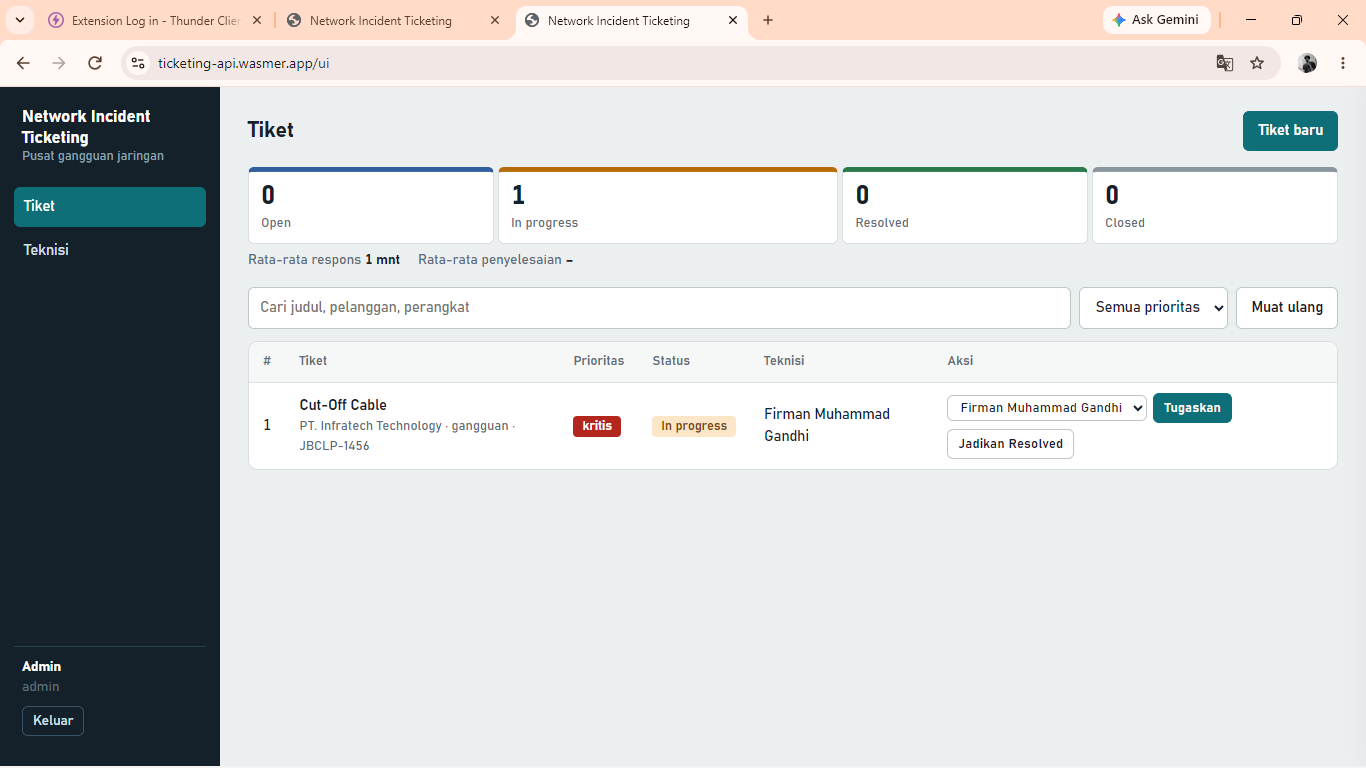
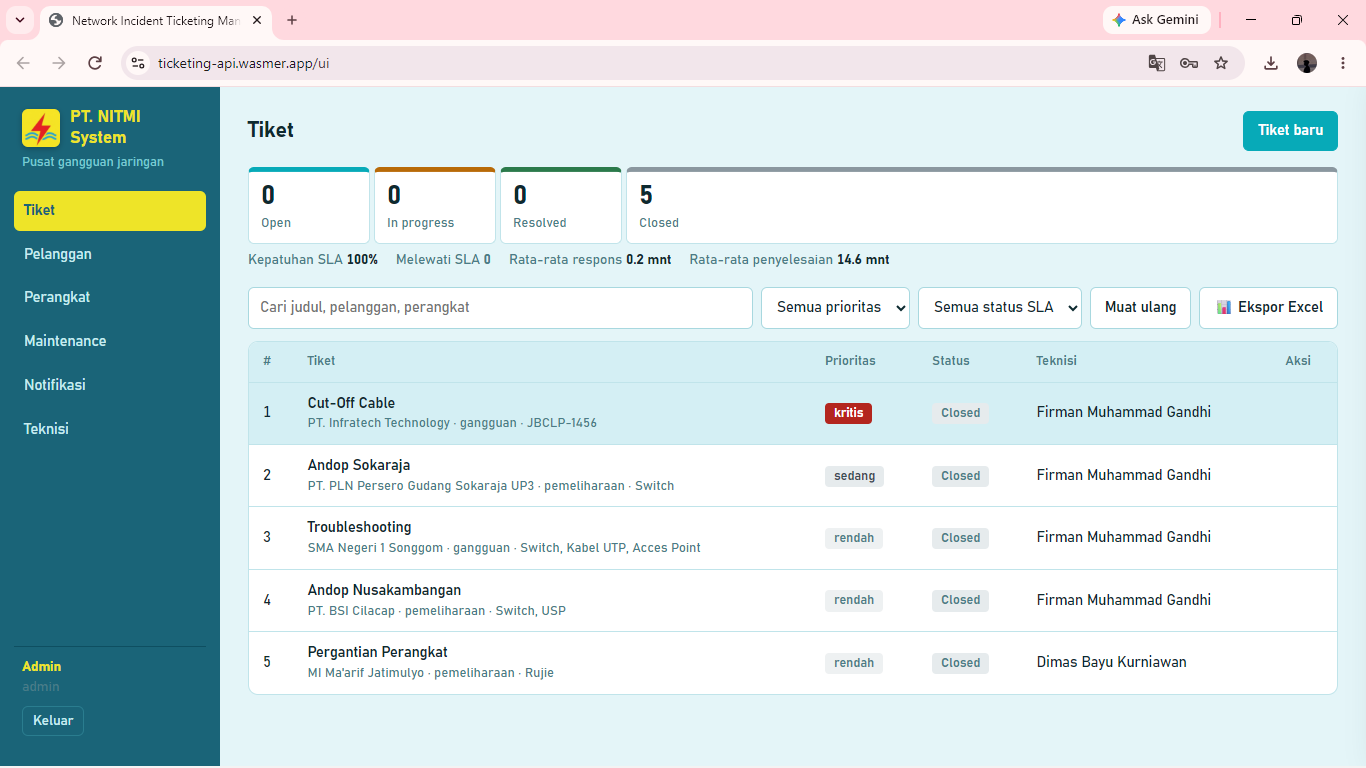
Update Nama Proyek dan Pengubahan Foto Portofolio NITM

diff --git a/index.html b/index.html
@@ -239,7 +239,7 @@ footer a:hover{color:var(--ac)}
 <a class="lk" href="https://classic-coffee-789.wasmer.app" target="_blank" rel="noopener">Website E-Commerce Classic Coffee 789 (Laravel)</a></article>
 <article class="card rv"><h3>Developer - Sistem UMKM Classic Coffee 789</h3><p class="sub">Native PHP</p>
 <a class="lk" href="https://github.com/LeeDohyun404/classic-coffee-789" target="_blank" rel="noopener">github.com/LeeDohyun404/classic-coffee-789</a></article>
-<article class="card rv"><span class="dt">Feb 2025</span><h3>Developer - Aplikasi Digital Signature</h3>
+<article class="card rv"><span class="dt">Feb 2025</span><h3>Developer - Network Incident Ticketing Management</h3>
 <ul><li>•	Merancang Sistem UI manajemen tiket gangguan jaringan dengan Python dan Flask, terinspirasi alur tiket ICRM+ yang digunakan selama magang di PT PLN Icon Plus..</li></ul>
 <a class="lk" href="https://ticketing-api.wasmer.app/ui" target="_blank" rel="noopener">Sistem Manajemen Network Ticketing (Python, Flask)</a></article>
 <article class="card rv"><h3>Developer - Aplikasi AI Chatbot Belajar Bareng AI</h3><p class="sub">Node.js</p>
@@ -332,8 +332,8 @@ var DATA = {
       gambar: [
         { judul: "Halaman Login", ket: "", img: "Login.png" },
         { judul: "Dashboard Admin", ket: "", img: "Dashboard Admin.png" },
-        { judul: "Fitur Buat Tiket", ket: "", img: "Buat Tiket.png" },
-        { judul: "Manajemen Teknisi Admin", ket: "", img: "Manajemen Tekninsi.png" },
+        { judul: "Menu Pelanggan", ket: "", img: "Menu Pelanggan.png" },
+        { judul: "Menu Perangkat", ket: "", img: "Menu Perangkat.png" },
         { judul: "Halaman Tambah Teknisi", ket: "", img: "Tambah Teknisi.png" },
         { judul: "Dashboard Teknisi", ket: "", img: "Dashboard Teknisi.png" }
       ] }
